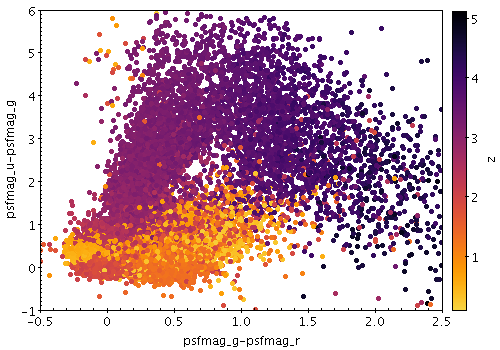
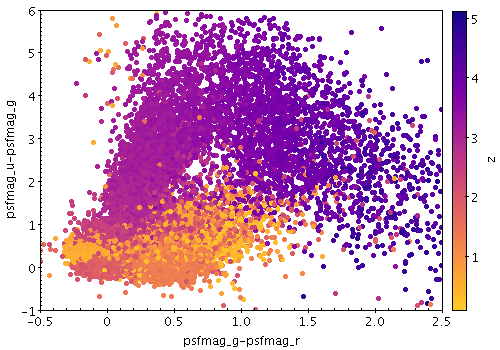
ttools: use explicit auxmap aux/weighted shading examples
In the example plots for shading=aux and shading=weighted
set the auxmap parameter explicitly (in this case to plasma)
rather than using the default.  This is worth doing in
the stilts example command lines, to show how you can adjust
the colour map, since otherwise it's not very obvious from
the documentation (since aux* parameters are a property of
the plot command not the layer).

diff --git a/ttools/src/main/uk/ac/starlink/ttools/build/Plot2Example.java b/ttools/src/main/uk/ac/starlink/ttools/build/Plot2Example.java
@@ -1186,10 +1186,10 @@ public class Plot2Example {
                 "*densemap1=viridis",
             } ),
             createShadingExample( "aux", c, new String[] {
-                "*aux1=z",
+                "*aux1=z", "*auxmap=plasma",
             } ),
             createShadingExample( "weighted", c, new String[] {
-                "*weight1=z",
+                "*weight1=z", "*auxmap=plasma",
             } ),
         };
     }
